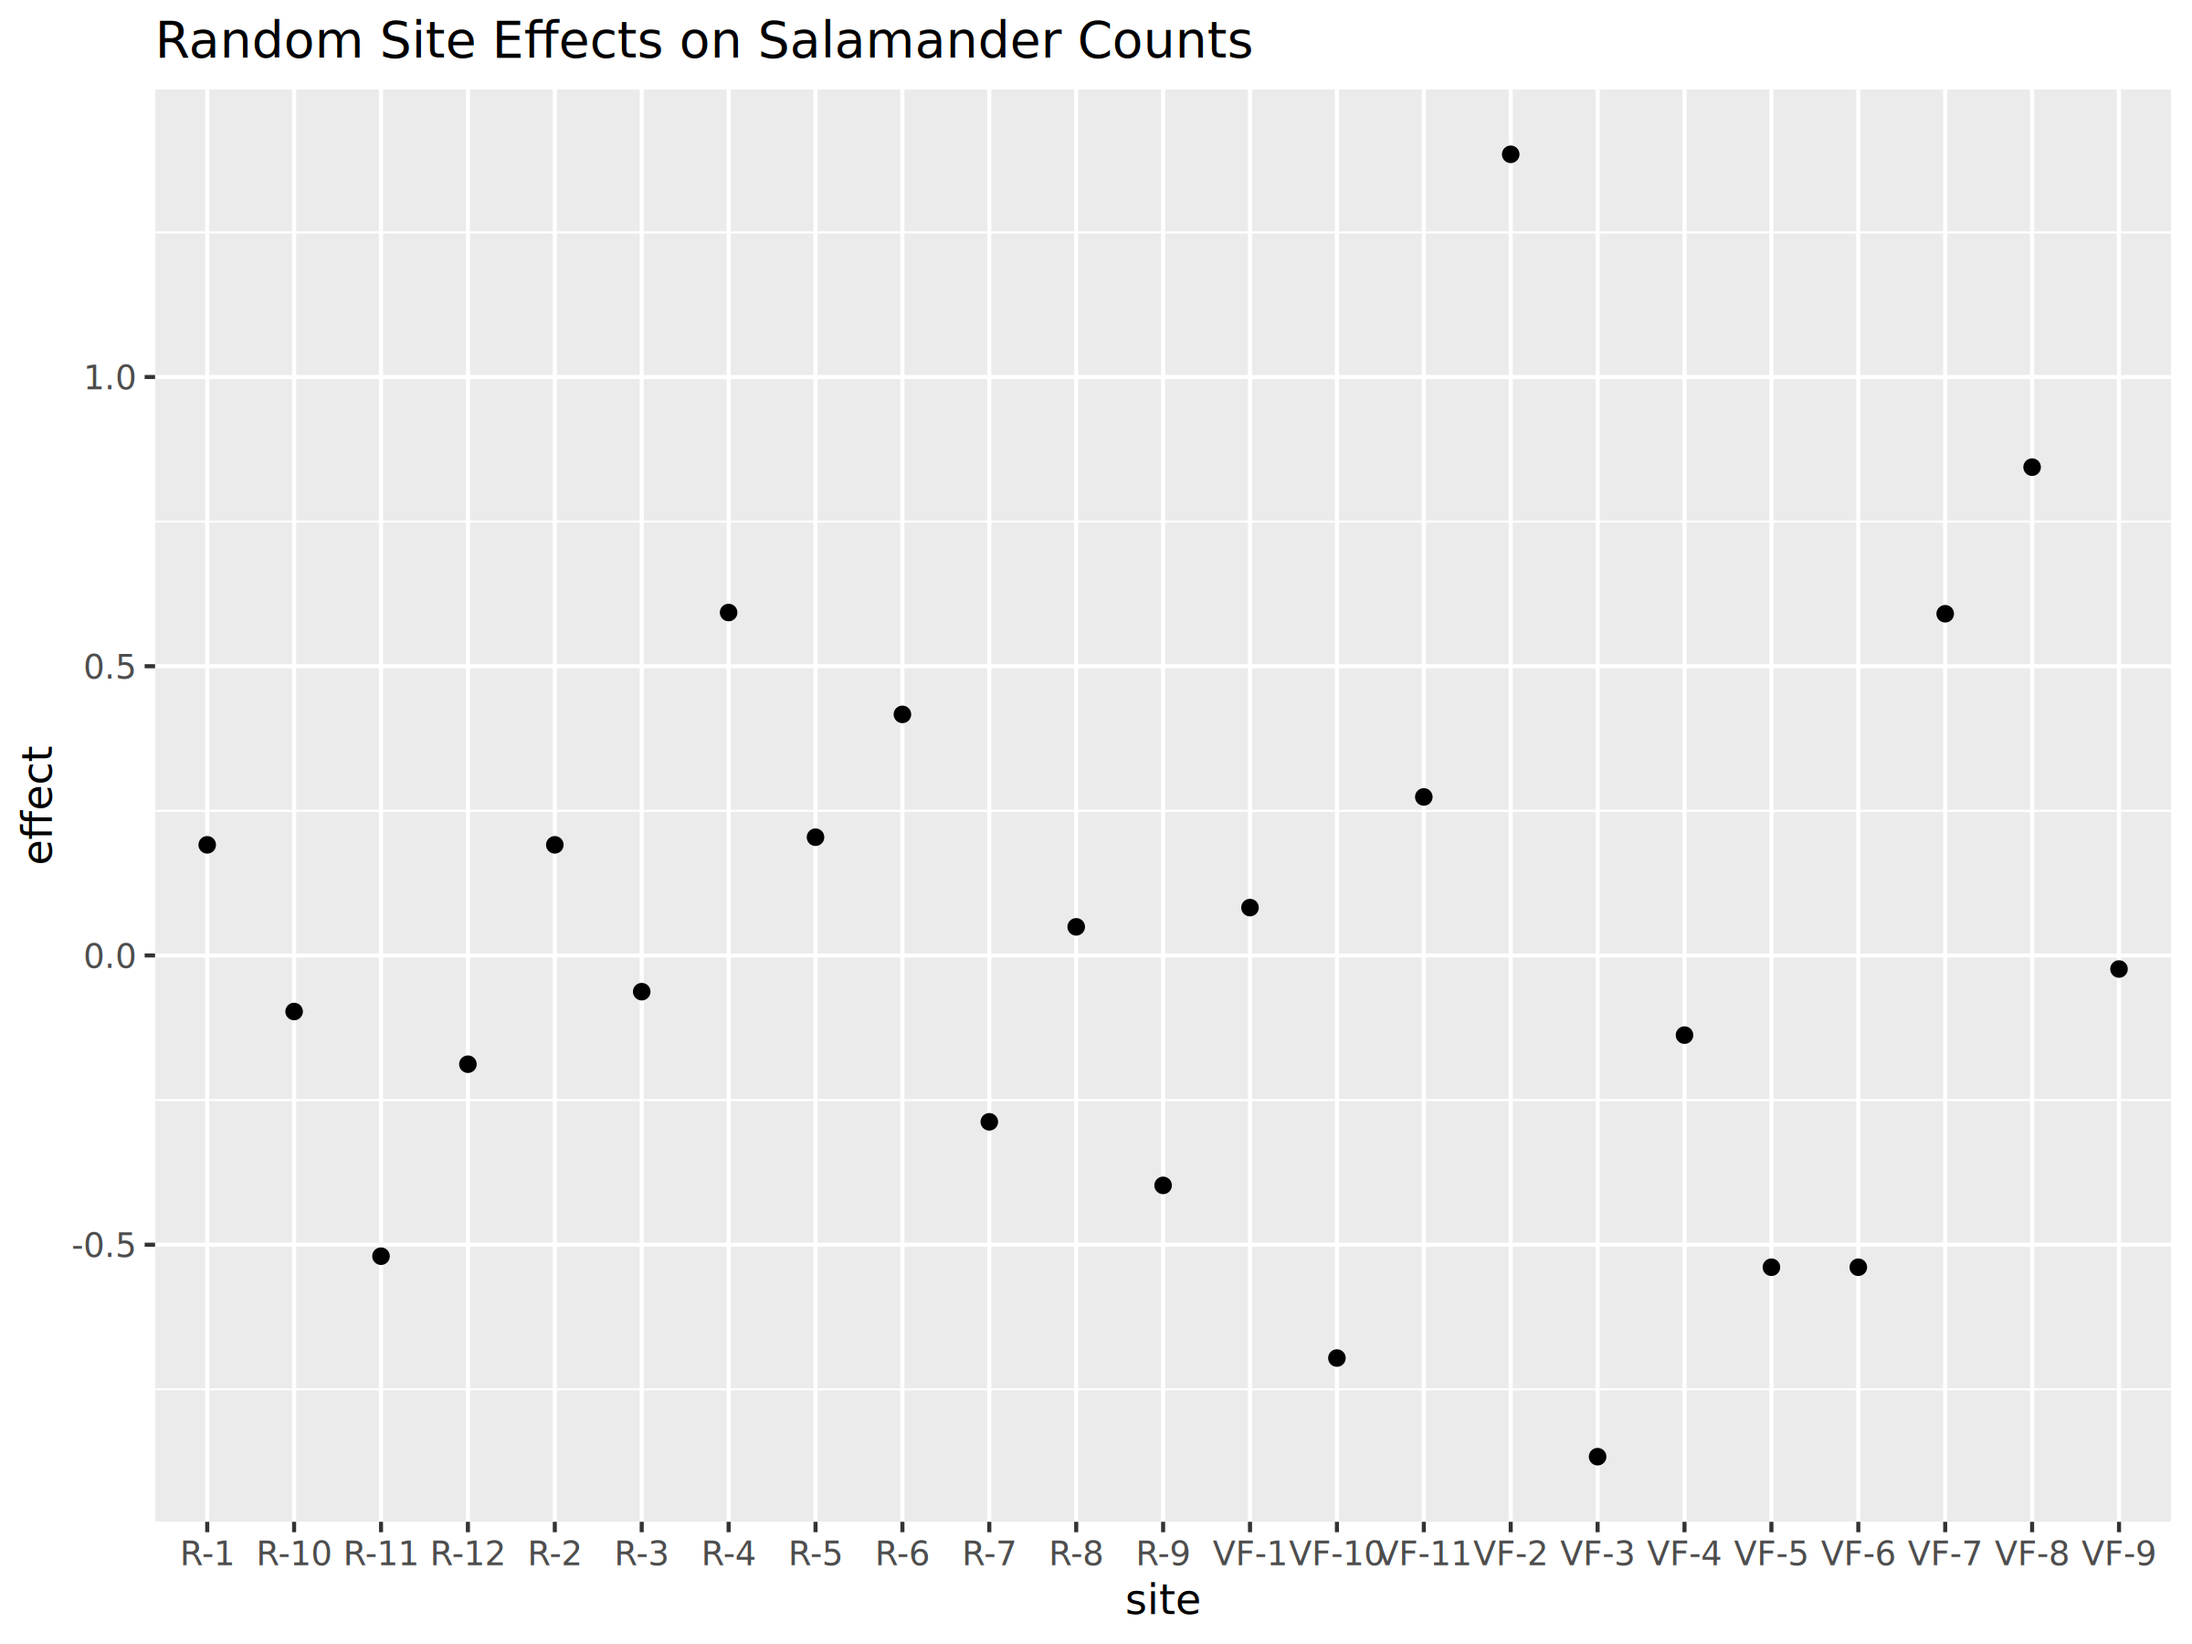
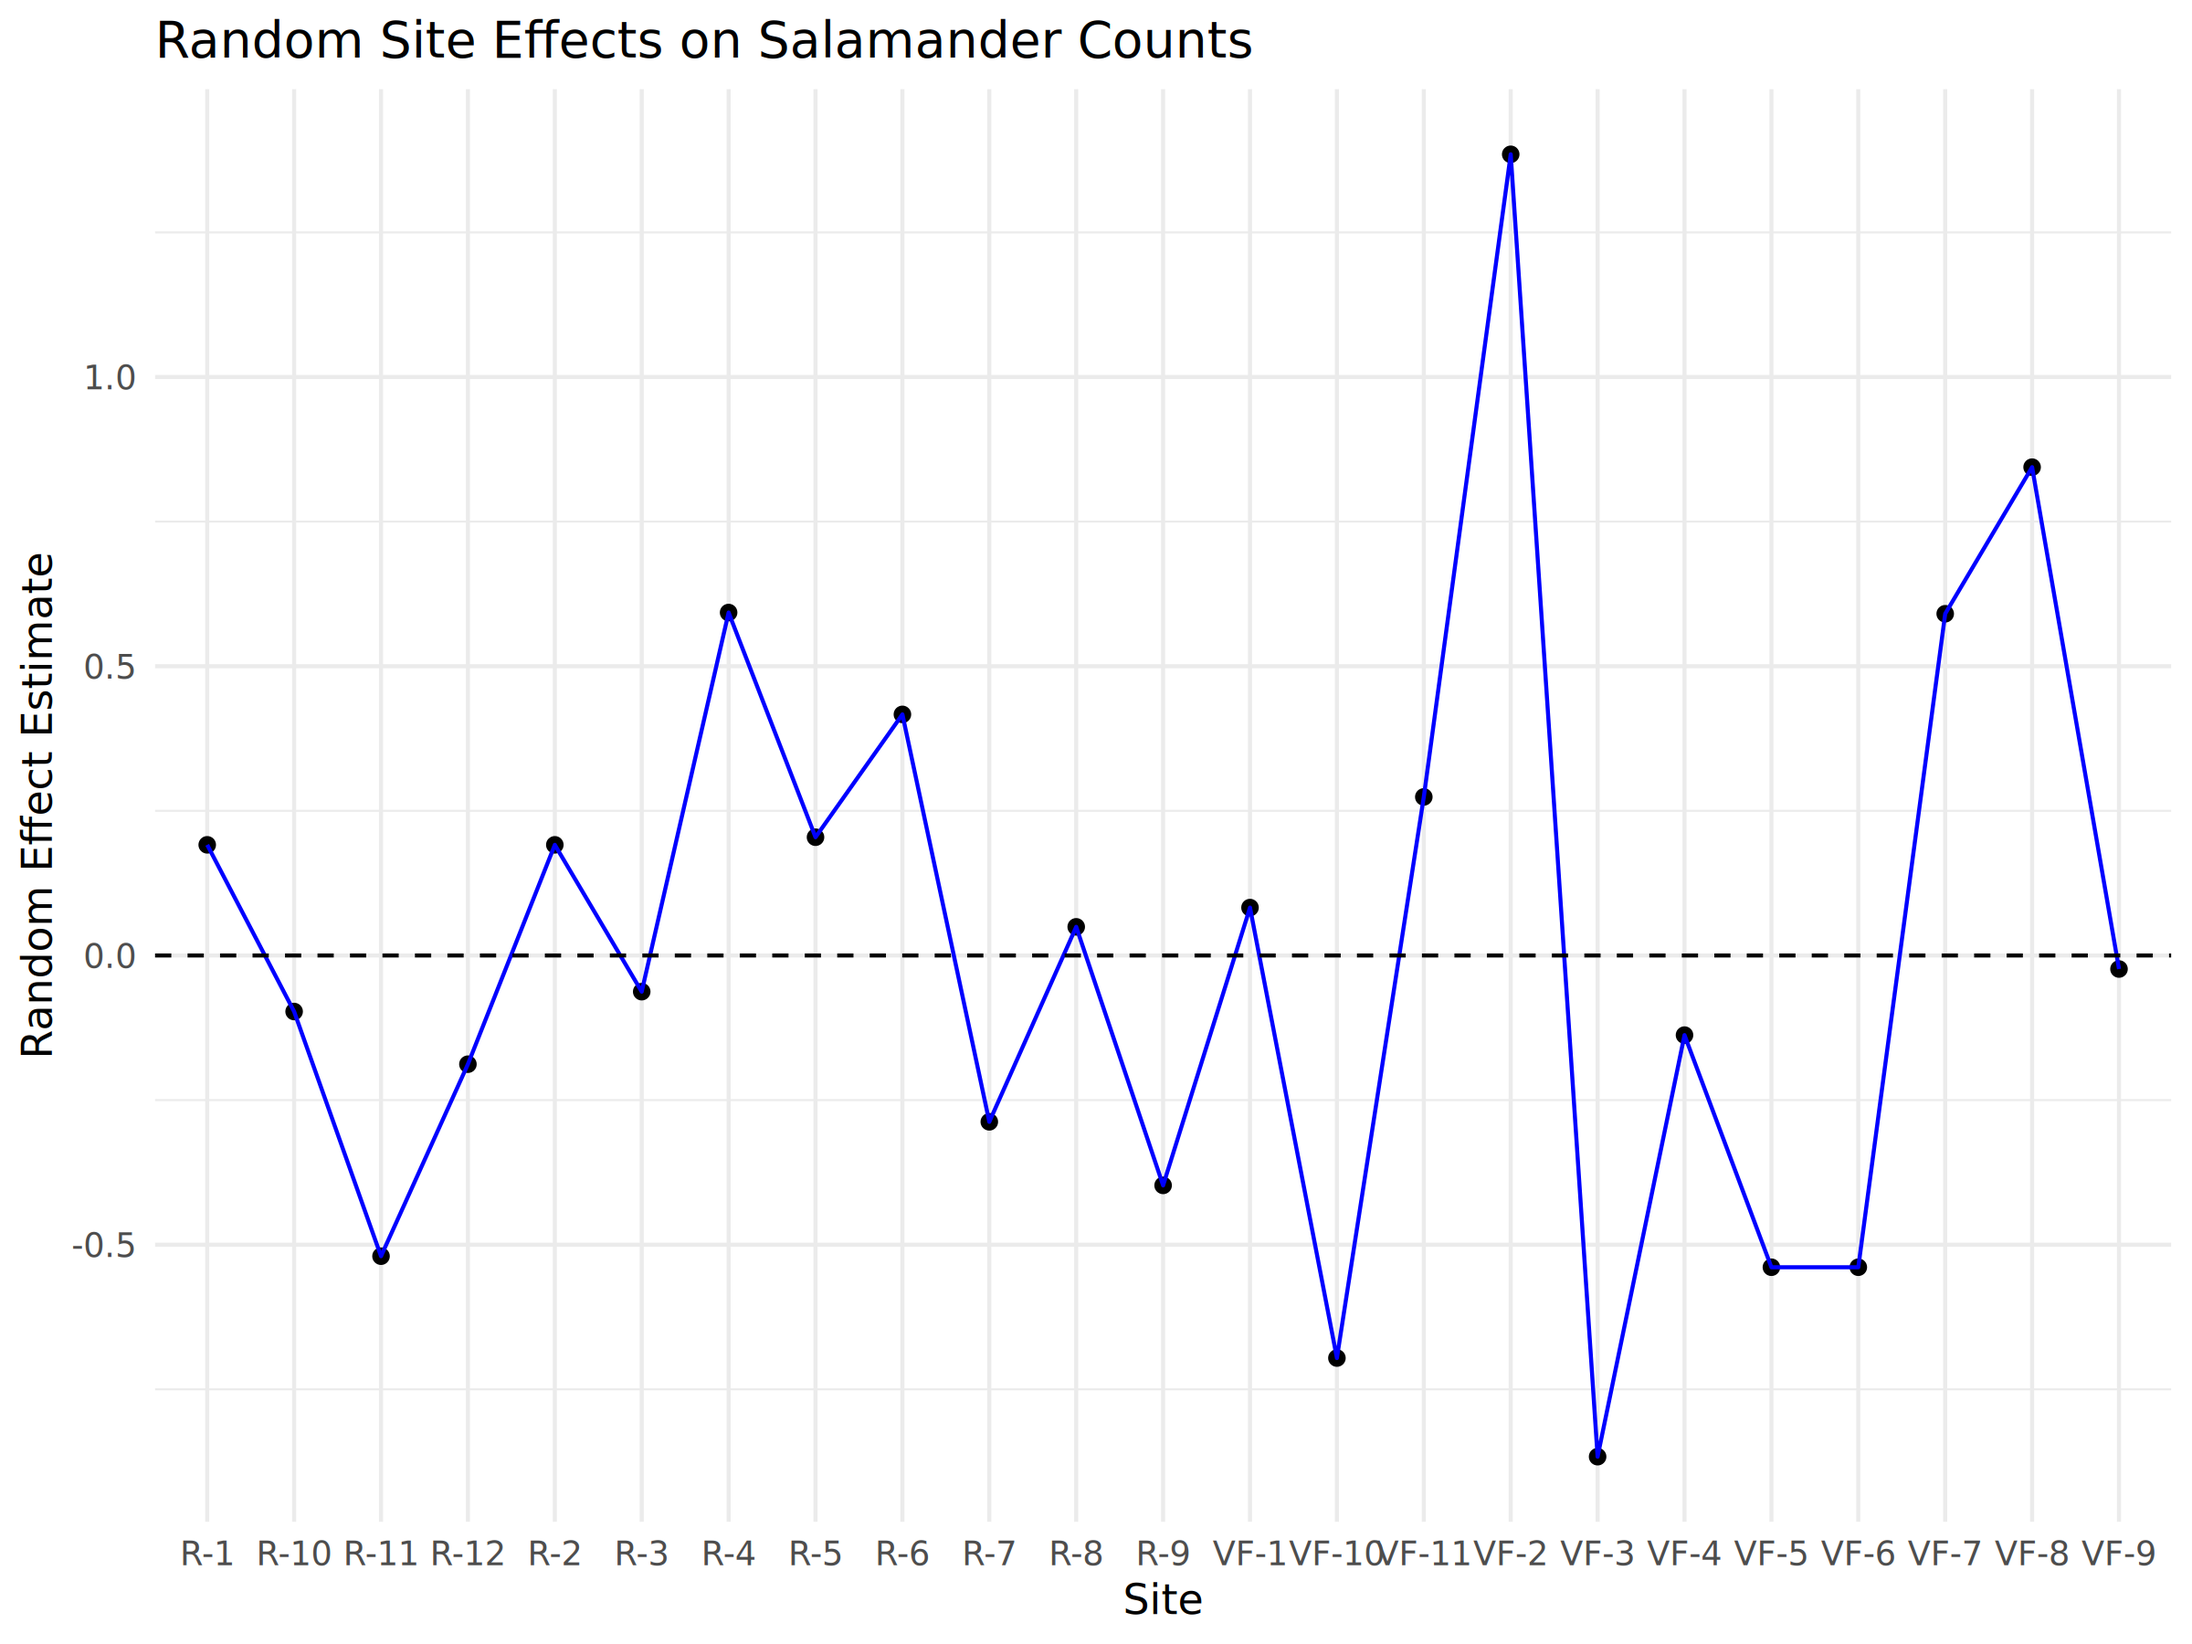
Second-commit

diff --git a/Easy-test/README.md b/Easy-test/README.md
@@ -1,0 +1,40 @@
+# EASY_TEST 
+
+# USED_PACKAGES:
+1) "glmmTMB" (version: ‘1.1.14’)
+2) "lme4" (version: ‘1.1.38’)
+3) "ggplot2" (version: ‘4.0.1’)
+
+# Summary ***Salamanders*** datasets:
+"The Salamanders dataset is indeed a preinstalled example dataset that comes with the glmmTMB package."
+
+
+# head ***Salamanders*** datasets:
+
+
+# Results:
+1) Model_1 (Standard GlmmTMB  Poisson model) :  
+
+2) Model_2 (Zero-inflated  GLmmTMB poisson  model):
+
+3) Model_3 (Binomial GLmmTMB model):
+
+4) Model_4 (Standard lme4 model):
+
+# AIC Comparsion (Standard GlmmTMB  Poisson model ***Model_1*** V/s Zero-inflated  GLmmTMB poisson  model ***Model_2*** ):
+
+
+
+# Visualization 
+
+***Note***: 
+1) Each dot := one site from the Salamanders dataset.
+2) The y‑axis shows how much that site’s salamander counts differ from the overall average.
+3) Positive values -> sites with higher counts than expected.
+4) Negative values -> sites with lower counts than expected.
+5) Shows which sites have higher or lower salamander counts compared to the average.
+ 
+![Random Effects Plot](random_effe_plot.png)
+
+
+
